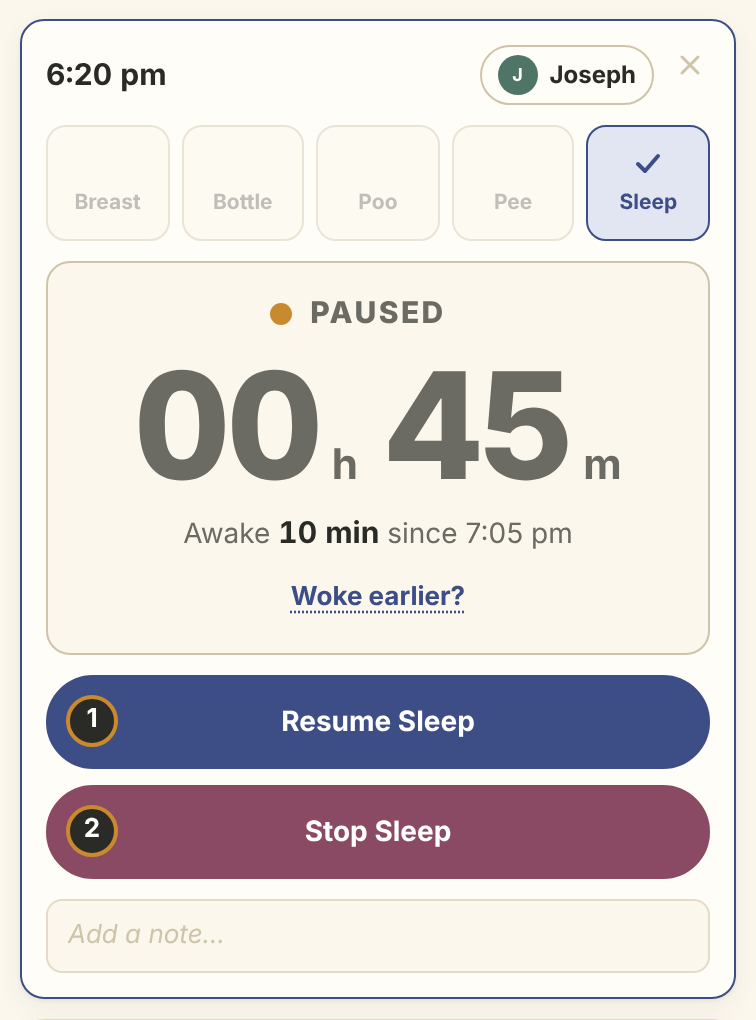
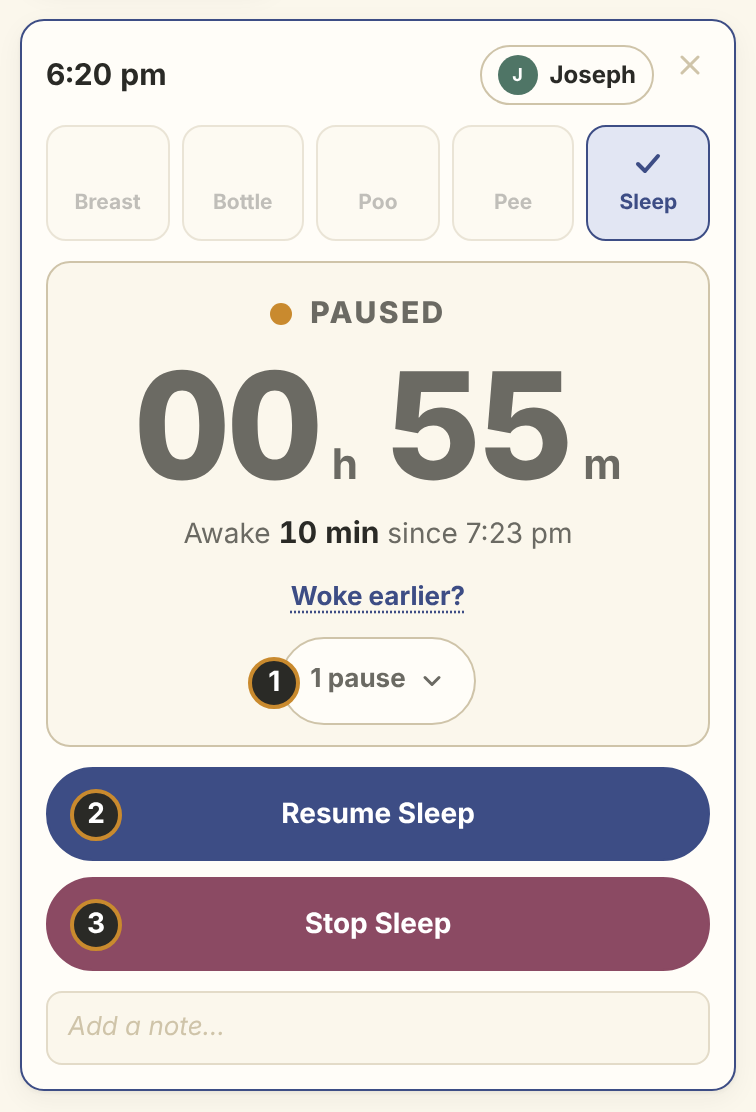
Release 1.13.0: changelog, version, refreshed Sleep tracker guide (JOS-78)
CHANGELOG entry as one plain paragraph and the version bump to 1.13.0
(package.json and package-lock.json).

The Sleep tracker user guide shows screens this release changes, so its
screenshots are reshot from the real app: 04-running and 14-card-header
(the "· 1 pause" text is now a button), 05-paused and 06-finished (the new
button), and a new 18-remove-pause on page 4. Page 2 gets a legend step for
the pause list and page 4 a "Paused by mistake?" block (Reopen, Remove,
Stop). Still six pages.

Claude-Session: https://claude.ai/code/session_01RZMzSgcTNQqXCdUxBHZ6DP

diff --git a/CHANGELOG.md b/CHANGELOG.md
@@ -9,6 +9,21 @@ feature, and PATCH is a fix with no new functionality.
 
 ## [Unreleased]
 
+## [1.13.0] - 2026-10-18
+
+### Added
+- The sleep card now shows each pause (JOS-78). A finished card shows when the
+  sleep began and ended (9:00 pm to 8:34 am) centred on its own line, with a
+  "2 pauses" button below it, and running and paused cards get the same button
+  where "· 2 pauses" used to sit. Tap the button, or anywhere on the summary
+  box, to open a list of every pause: when it began and ended and how long it
+  lasted, with the total paused time at the top. A paused card also lists the
+  pause still going. While a sleep is running, paused or reopened, each
+  finished pause has a Remove button; confirm, and that time counts as sleep
+  again. A finished card lists its pauses read-only and says to tap Reopen
+  sleep first. Needs one new database function, remove_sleep_pause (no table
+  changes).
+
 ## [1.12.0] - 2026-10-17
 
 ### Added
